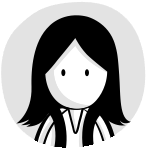
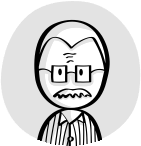
Improve history chat loading UX and Work chrome polish.
Show loading when switching conversations, fade in timelines, orange composer border, hand-drawn FDE-DESK label, and update content-studio avatar.

diff --git a/frontend/src/pages/ChatPage.tsx b/frontend/src/pages/ChatPage.tsx
@@ -363,6 +363,8 @@ export function ChatPage() {
   const useStandbyLayout =
     workspaceView === 'chat' && messages.length === 0 && !loading
   const showStandbyPanel = useStandbyLayout
+  /** History / fork: chat id is known while timeline is still fetching */
+  const showConversationLoading = chatSessionLoading && chatId != null
 
   const fulfillment = useFulfillmentPanel({
     selectedId,
@@ -758,6 +760,7 @@ export function ChatPage() {
         [agentId]: {
           ...session,
           error: null,
+          chatId: id,
           chatSessionLoading: true,
           messages: session.chatId === id ? session.messages : [],
         },
@@ -2384,14 +2387,17 @@ export function ChatPage() {
                   onScroll={updateScrollPin}
                 >
                   <div className="chat-content-column">
-                    {showStandbyPanel ? (
+                    {showConversationLoading ? (
+                      <PanelLoadingState
+                        message="Loading conversation…"
+                        className="chat-session-loading"
+                      />
+                    ) : showStandbyPanel ? (
                       <ChatStandbyPanel
                         agentSlug={sidebarAgent.slug}
                         agentName={formatAgentLabel(sidebarAgent)}
                         agentDescription={sidebarAgent.description}
                       />
-                    ) : chatSessionLoading ? (
-                      <PanelLoadingState message="Loading conversation…" />
                     ) : (
                       <>
                         {messages.length === 0 && (
@@ -2400,6 +2406,7 @@ export function ChatPage() {
                           </div>
                         )}
                         <ChatMessageList
+                          key={chatId ?? 'empty'}
                           messages={messages}
                           loading={loading}
                           turnSyncHint={turnSyncHint}

diff --git a/frontend/src/index.css b/frontend/src/index.css
@@ -3,6 +3,8 @@
 @theme {
   --font-sans: 'Poppins', ui-sans-serif, system-ui, sans-serif;
   --font-mono: 'JetBrains Mono', ui-monospace, monospace;
+  /* Sidebar FDE-DESK — swap: 'Patrick Hand' | 'Permanent Marker' | 'Gloria Hallelujah' */
+  --font-desk-brand: 'Permanent Marker', 'PingFang SC', cursive;
 
   --color-brand-50: #fff5ef;
   --color-brand-100: #ffe8d9;
@@ -1451,10 +1453,10 @@ body {
   border: none;
   padding: 0;
   background: transparent;
-  font-family: var(--font-sans);
-  font-size: 0.75rem;
-  font-weight: 800;
-  letter-spacing: 0.06em;
+  font-family: var(--font-desk-brand);
+  font-size: 0.8125rem;
+  font-weight: 400;
+  letter-spacing: 0.02em;
   text-transform: uppercase;
   color: var(--color-brand-500);
   cursor: pointer;
@@ -3835,6 +3837,36 @@ body {
   color: var(--color-muted, #64748b);
 }
 
+.chat-session-loading {
+  flex: 1;
+  min-height: 12rem;
+  animation: chat-session-loading-in 0.18s ease-out;
+}
+
+@keyframes chat-session-loading-in {
+  from {
+    opacity: 0;
+  }
+  to {
+    opacity: 1;
+  }
+}
+
+.chat-timeline-enter {
+  animation: chat-timeline-enter 0.24s ease-out;
+}
+
+@keyframes chat-timeline-enter {
+  from {
+    opacity: 0;
+    transform: translateY(6px);
+  }
+  to {
+    opacity: 1;
+    transform: translateY(0);
+  }
+}
+
 .chat-main-placeholder {
   display: flex;
   flex: 1;
@@ -3888,8 +3920,9 @@ body {
 .chat-composer {
   position: relative;
   border-radius: 14px;
-  border: 1px solid color-mix(in oklab, var(--color-border) 85%, var(--color-ink));
+  border: 1px solid color-mix(in oklab, var(--color-brand-500) 38%, var(--color-border));
   background: color-mix(in oklab, var(--color-surface-raised) 98%, var(--color-panel-soft));
+  transition: border-color 0.15s ease, background 0.15s ease;
   padding: 0.625rem 0.875rem 0.5rem;
   min-height: 5.25rem;
   display: flex;

diff --git a/frontend/index.html b/frontend/index.html
@@ -7,7 +7,7 @@
     <link rel="preconnect" href="https://fonts.googleapis.com" />
     <link rel="preconnect" href="https://fonts.gstatic.com" crossorigin />
     <link
-      href="https://fonts.googleapis.com/css2?family=Poppins:wght@400;500;600&family=JetBrains+Mono:wght@400;500&display=swap"
+      href="https://fonts.googleapis.com/css2?family=Patrick+Hand&family=Permanent+Marker&family=Poppins:wght@400;500;600&family=JetBrains+Mono:wght@400;500&display=swap"
       rel="stylesheet"
     />
     <title>Agent Team</title>

diff --git a/frontend/src/components/ChatMessageList.tsx b/frontend/src/components/ChatMessageList.tsx
@@ -142,7 +142,7 @@ export function ChatMessageList({
     (fulfillmentForms.length > 0 || fulfillmentFormsLoading || Boolean(fulfillmentFormsError))
 
   return (
-    <div className="chat-timeline">
+    <div className="chat-timeline chat-timeline-enter">
       {blocks.map((block, index) => {
         const key = block.kind === 'bubble' ? block.message.id : `${block.kind}-${block.id}-${index}`
         const node = renderBlock(
